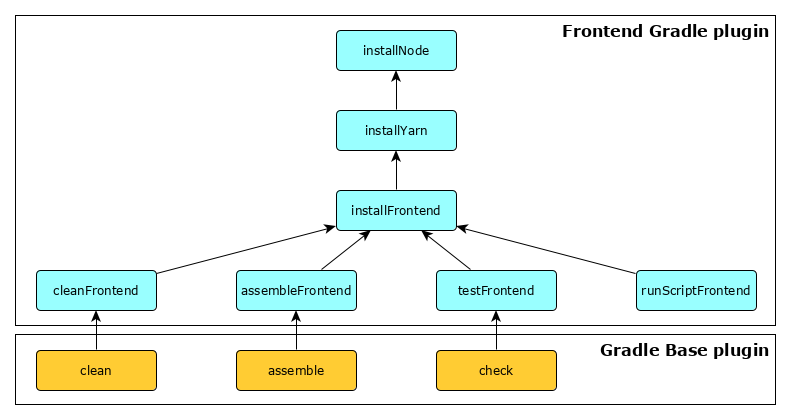
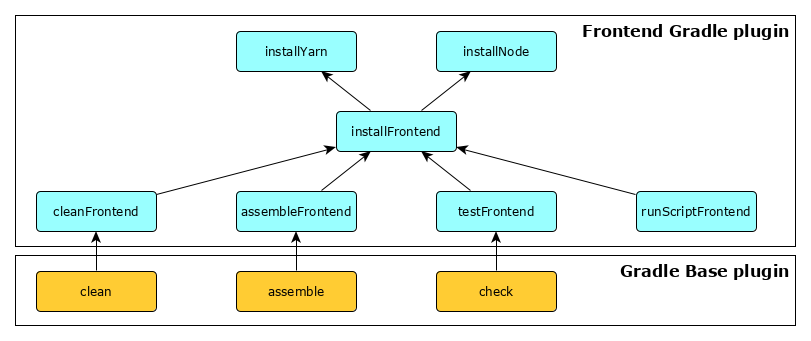
Fixed code smells, removed dependency between installYarn task and installNode task.

diff --git a/src/test/java/org/siouan/frontendgradleplugin/job/ExecSpecActionTest.java b/src/test/java/org/siouan/frontendgradleplugin/job/ExecSpecActionTest.java
@@ -7,6 +7,7 @@ import static org.mockito.Mockito.when;
 
 import java.io.File;
 import java.util.ArrayList;
+import java.util.Arrays;
 import java.util.Collections;
 import java.util.List;
 import java.util.function.Consumer;
@@ -16,6 +17,7 @@ import org.junit.jupiter.api.BeforeEach;
 import org.junit.jupiter.api.Test;
 import org.junit.jupiter.api.io.TempDir;
 import org.mockito.ArgumentCaptor;
+import org.mockito.Captor;
 import org.mockito.Mock;
 import org.mockito.MockitoAnnotations;
 
@@ -46,6 +48,9 @@ public class ExecSpecActionTest {
     @Mock
     private Consumer<ExecSpec> afterConfigured;
 
+    @Captor
+    private ArgumentCaptor<List<String>> argsCaptor;
+
     @BeforeEach
     public void setUp() {
         MockitoAnnotations.initMocks(this);
@@ -56,7 +61,7 @@ public class ExecSpecActionTest {
         final String script = SCRIPT;
         final String pathEnvironment = PATH_ENVIRONMENT;
         final ExecSpecAction action = new ExecSpecAction(false, NODE_INSTALL_DIRECTORY, YARN_INSTALL_DIRECTORY, script,
-            afterConfigured::accept, "Windows NT");
+            afterConfigured, "Windows NT");
         when(execSpec.getEnvironment()).thenReturn(Collections.singletonMap("Path", pathEnvironment));
 
         action.execute(execSpec);
@@ -72,7 +77,7 @@ public class ExecSpecActionTest {
         final String script = SCRIPT;
         final String pathEnvironment = PATH_ENVIRONMENT;
         final ExecSpecAction action = new ExecSpecAction(true, NODE_INSTALL_DIRECTORY, YARN_INSTALL_DIRECTORY, script,
-            afterConfigured::accept, "Windows NT");
+            afterConfigured, "Windows NT");
         when(execSpec.getEnvironment()).thenReturn(Collections.singletonMap("PATH", pathEnvironment));
 
         action.execute(execSpec);
@@ -88,17 +93,13 @@ public class ExecSpecActionTest {
         final String script = SCRIPT;
         final String pathEnvironment = PATH_ENVIRONMENT;
         final ExecSpecAction action = new ExecSpecAction(false, NODE_INSTALL_DIRECTORY, YARN_INSTALL_DIRECTORY, script,
-            afterConfigured::accept, "Linux");
+            afterConfigured, "Linux");
         when(execSpec.getEnvironment()).thenReturn(Collections.singletonMap("Path", pathEnvironment));
 
         action.execute(execSpec);
 
-        final List<String> expectedArgs = new ArrayList<>();
-        for (final String expectedArg : script.trim().split("\\s+")) {
-            expectedArgs.add(expectedArg);
-        }
-        assertExecSpecWith(ExecSpecAction.NPM_EXECUTABLE, expectedArgs, pathEnvironment, true,
-            false);
+        assertExecSpecWith(ExecSpecAction.NPM_EXECUTABLE, Arrays.asList(script.trim().split("\\s+")), pathEnvironment,
+            true, false);
     }
 
     @Test
@@ -106,24 +107,19 @@ public class ExecSpecActionTest {
         final String script = SCRIPT;
         final String pathEnvironment = PATH_ENVIRONMENT;
         final ExecSpecAction action = new ExecSpecAction(true, NODE_INSTALL_DIRECTORY, YARN_INSTALL_DIRECTORY, script,
-            afterConfigured::accept, "Mac OS X");
+            afterConfigured, "Mac OS X");
         when(execSpec.getEnvironment()).thenReturn(Collections.singletonMap("PATH", pathEnvironment));
 
         action.execute(execSpec);
 
-        final List<String> expectedArgs = new ArrayList<>();
-        for (final String expectedArg : script.trim().split("\\s+")) {
-            expectedArgs.add(expectedArg);
-        }
-        assertExecSpecWith(ExecSpecAction.YARN_EXECUTABLE, expectedArgs, pathEnvironment, true,
-            true);
+        assertExecSpecWith(ExecSpecAction.YARN_EXECUTABLE, Arrays.asList(script.trim().split("\\s+")), pathEnvironment,
+            true, true);
     }
 
     private void assertExecSpecWith(final String expectedExecutable, final List<String> expectedArgs,
         final String initialPathEnvironment, final boolean nodeInstallPathIncluded,
         final boolean yarnInstallPathIncluded) {
         verify(execSpec).setExecutable(expectedExecutable);
-        final ArgumentCaptor<List<String>> argsCaptor = ArgumentCaptor.forClass(List.class);
         verify(execSpec).setArgs(argsCaptor.capture());
         final List<String> args = argsCaptor.getValue();
         assertThat(args).isEqualTo(expectedArgs);

diff --git a/src/main/java/org/siouan/frontendgradleplugin/node/NodeDistributionUrlResolver.java b/src/main/java/org/siouan/frontendgradleplugin/node/NodeDistributionUrlResolver.java
@@ -3,6 +3,7 @@ package org.siouan.frontendgradleplugin.node;
 import java.net.MalformedURLException;
 import java.net.URI;
 import java.net.URL;
+import java.util.Optional;
 
 import org.siouan.frontendgradleplugin.Utils;
 import org.siouan.frontendgradleplugin.job.DistributionUrlResolver;
@@ -54,35 +55,17 @@ public class NodeDistributionUrlResolver implements DistributionUrlResolver {
     public URL resolve() throws DistributionUrlResolverException {
         final String urlAsString;
         if (distributionUrl == null) {
-            final StringBuffer buffer = new StringBuffer();
+            final StringBuilder buffer = new StringBuilder();
             buffer.append("https://nodejs.org/dist/v");
             buffer.append(version);
             buffer.append("/node-v");
             buffer.append(version);
-            final String extension;
-            if (Utils.is64BitsArch(jreArch)) {
-                if (Utils.isWindowsOs(osName)) {
-                    extension = "-win-x64.zip";
-                } else if (Utils.isLinuxOs(osName)) {
-                    extension = "-linux-x64.tar.gz";
-                } else if (Utils.isMacOs(osName)) {
-                    extension = "-darwin-x64.tar.gz";
-                } else {
-                    extension = null;
-                }
+            final Optional<String> extension = resolveExtension();
+            if (extension.isPresent()) {
+                buffer.append(extension.get());
             } else {
-                if (Utils.isWindowsOs(osName)) {
-                    extension = "-win-x86.zip";
-                } else {
-                    extension = null;
-                }
-            }
-
-            if (extension == null) {
                 throw new DistributionUrlResolverException(
                     "This platform is not supported yet: " + osName + ", " + jreArch);
-            } else {
-                buffer.append(extension);
             }
 
             urlAsString = buffer.toString();
@@ -95,5 +78,28 @@ public class NodeDistributionUrlResolver implements DistributionUrlResolver {
         } catch (final MalformedURLException e) {
             throw new DistributionUrlResolverException(e);
         }
+    }
+
+    private Optional<String> resolveExtension() {
+        final String extension;
+        if (Utils.is64BitsArch(jreArch)) {
+            if (Utils.isWindowsOs(osName)) {
+                extension = "-win-x64.zip";
+            } else if (Utils.isLinuxOs(osName)) {
+                extension = "-linux-x64.tar.gz";
+            } else if (Utils.isMacOs(osName)) {
+                extension = "-darwin-x64.tar.gz";
+            } else {
+                extension = null;
+            }
+        } else {
+            if (Utils.isWindowsOs(osName)) {
+                extension = "-win-x86.zip";
+            } else {
+                extension = null;
+            }
+        }
+
+        return Optional.ofNullable(extension);
     }
 }

diff --git a/src/main/java/org/siouan/frontendgradleplugin/FrontendGradlePlugin.java b/src/main/java/org/siouan/frontendgradleplugin/FrontendGradlePlugin.java
@@ -18,9 +18,9 @@ public class FrontendGradlePlugin implements Plugin<Project> {
 
     public static final String DEFAULT_YARN_INSTALL_DIRNAME = "yarn";
 
-    public static final String EXTENSION_NAME = "frontend";
+    private static final String EXTENSION_NAME = "frontend";
 
-    public static final String TASK_GROUP = "Frontend";
+    private static final String TASK_GROUP = "Frontend";
 
     public void apply(final Project project) {
         project.getPluginManager().apply(BasePlugin.class);
@@ -49,7 +49,7 @@ public class FrontendGradlePlugin implements Plugin<Project> {
         projectTasks.register(AssembleTask.DEFAULT_NAME, AssembleTask.class, task -> configureTask(task, extension));
         projectTasks.named("assemble", task -> task.dependsOn(projectTasks.named(AssembleTask.DEFAULT_NAME)));
 
-        projectTasks.register(RunScriptTask.DEFAULT_NAME, RunScriptTask.class, task -> configureTask(task, extension));
+        projectTasks.register(RunScriptTask.DEFAULT_NAME, RunScriptTask.class, this::configureTask);
     }
 
     private void configureTask(final NodeInstallTask task, final FrontendExtension extension) {
@@ -67,7 +67,6 @@ public class FrontendGradlePlugin implements Plugin<Project> {
         task.getYarnVersion().set(extension.getYarnVersion());
         task.getYarnDistributionUrl().set(extension.getYarnDistributionUrl());
         task.getYarnInstallDirectory().set(extension.getYarnInstallDirectory());
-        task.dependsOn(NodeInstallTask.DEFAULT_NAME);
     }
 
     private void configureTask(final InstallTask task, FrontendExtension extension) {
@@ -109,7 +108,7 @@ public class FrontendGradlePlugin implements Plugin<Project> {
         task.dependsOn(InstallTask.DEFAULT_NAME);
     }
 
-    private void configureTask(final RunScriptTask task, FrontendExtension extension) {
+    private void configureTask(final RunScriptTask task) {
         task.setGroup(TASK_GROUP);
         task.setDescription("Runs a frontend script.");
         task.dependsOn(InstallTask.DEFAULT_NAME);

diff --git a/src/main/java/org/siouan/frontendgradleplugin/DownloaderImpl.java b/src/main/java/org/siouan/frontendgradleplugin/DownloaderImpl.java
@@ -1,7 +1,5 @@
 package org.siouan.frontendgradleplugin;
 
-import static org.siouan.frontendgradleplugin.Utils.closeOrWarn;
-
 import java.io.File;
 import java.io.FileOutputStream;
 import java.io.IOException;
@@ -30,17 +28,11 @@ public class DownloaderImpl implements Downloader {
     public void download(final URL resourceUrl, final File destinationFile) throws DownloadException {
         final String resourceName = new File(resourceUrl.getPath()).getName();
         final File downloadedFile = new File(temporaryDirectory, resourceName);
-        ReadableByteChannel readableByteChannel = null;
-        FileOutputStream fileOutputStream = null;
-        try {
-            readableByteChannel = Channels.newChannel(resourceUrl.openStream());
-            fileOutputStream = new FileOutputStream(downloadedFile);
+        try (final ReadableByteChannel readableByteChannel = Channels.newChannel(resourceUrl.openStream());
+             final FileOutputStream fileOutputStream = new FileOutputStream(downloadedFile)) {
             fileOutputStream.getChannel().transferFrom(readableByteChannel, 0, Long.MAX_VALUE);
         } catch (final IOException e) {
             throw new DownloadException("Resource at '" + resourceUrl + "' could not be downloaded.", e);
-        } finally {
-            closeOrWarn(fileOutputStream);
-            closeOrWarn(readableByteChannel);
         }
 
         try {

diff --git a/src/test/java/org/siouan/frontendgradleplugin/job/DistributionInstallJobTest.java b/src/test/java/org/siouan/frontendgradleplugin/job/DistributionInstallJobTest.java
@@ -19,11 +19,13 @@ import java.nio.file.Files;
 import org.gradle.api.Action;
 import org.gradle.api.Project;
 import org.gradle.api.Task;
+import org.gradle.api.file.CopySpec;
 import org.gradle.api.logging.Logger;
 import org.gradle.api.tasks.WorkResult;
 import org.junit.jupiter.api.BeforeEach;
 import org.junit.jupiter.api.Test;
 import org.junit.jupiter.api.io.TempDir;
+import org.mockito.ArgumentMatchers;
 import org.mockito.Mock;
 import org.mockito.MockitoAnnotations;
 import org.mockito.invocation.InvocationOnMock;
@@ -120,14 +122,14 @@ public class DistributionInstallJobTest {
         final DistributionInstallJob job = new DistributionInstallJob(task, urlResolver, null,
             new File(temporaryDirectory, "install"));
         // Emulate exploding distribution
-        when(project.copy(any(Action.class)))
+        when(project.copy(ArgumentMatchers.<Action<CopySpec>>any()))
             .then(invocation -> explodeArchive(invocation, distributionUrlAsString, installDirectory));
 
         job.install();
 
         verify(urlResolver).resolve();
         verifyNoMoreInteractions(urlResolver);
-        verify(project).copy(any(Action.class));
+        verify(project).copy(ArgumentMatchers.<Action<CopySpec>>any());
         assertThat(installDirectory.list()).isNotEmpty();
     }
 

diff --git a/src/main/java/org/siouan/frontendgradleplugin/job/ExecSpecAction.java b/src/main/java/org/siouan/frontendgradleplugin/job/ExecSpecAction.java
@@ -2,6 +2,7 @@ package org.siouan.frontendgradleplugin.job;
 
 import java.io.File;
 import java.util.ArrayList;
+import java.util.Arrays;
 import java.util.List;
 import java.util.Map;
 import java.util.function.Consumer;
@@ -115,15 +116,13 @@ public class ExecSpecAction implements Action<ExecSpec> {
             } else {
                 executable = NPM_EXECUTABLE;
             }
-            for (final String arg : script.trim().split("\\s+")) {
-                args.add(arg);
-            }
+            args.addAll(Arrays.asList(script.trim().split("\\s+")));
         }
 
         // Prepend directories containing the Node and Yarn executables to the 'PATH' environment variable.
         final Map<String, Object> environment = execSpec.getEnvironment();
         final String pathVariable = findPathVariable(environment);
-        final StringBuffer pathValue = new StringBuffer(nodeInstallDirectory.getAbsolutePath());
+        final StringBuilder pathValue = new StringBuilder(nodeInstallDirectory.getAbsolutePath());
         pathValue.append(File.pathSeparatorChar);
         if (yarnEnabled) {
             pathValue.append(yarnInstallDirectory.getAbsolutePath());

diff --git a/src/main/java/org/siouan/frontendgradleplugin/Utils.java b/src/main/java/org/siouan/frontendgradleplugin/Utils.java
@@ -1,6 +1,5 @@
 package org.siouan.frontendgradleplugin;
 
-import java.io.Closeable;
 import java.io.File;
 import java.io.IOException;
 import java.io.UncheckedIOException;
@@ -9,7 +8,6 @@ import java.nio.file.Files;
 import java.nio.file.Path;
 import java.nio.file.SimpleFileVisitor;
 import java.nio.file.attribute.BasicFileAttributes;
-import java.util.logging.Level;
 import java.util.logging.Logger;
 import java.util.stream.Stream;
 
@@ -21,21 +19,6 @@ public final class Utils {
     private static final Logger LOGGER = Logger.getLogger(Utils.class.getName());
 
     private Utils() {
-    }
-
-    /**
-     * Closes a resource and produces a WARN log if it fails.
-     *
-     * @param closeable Closeable resource.
-     */
-    public static void closeOrWarn(final Closeable closeable) {
-        if (closeable != null) {
-            try {
-                closeable.close();
-            } catch (final IOException e) {
-                LOGGER.log(Level.WARNING, "Resource not closed", e);
-            }
-        }
     }
 
     /**

diff --git a/src/main/java/org/siouan/frontendgradleplugin/job/ScriptRunJob.java b/src/main/java/org/siouan/frontendgradleplugin/job/ScriptRunJob.java
@@ -1,7 +1,6 @@
 package org.siouan.frontendgradleplugin.job;
 
 import java.io.File;
-import java.util.stream.Collectors;
 
 import org.gradle.api.Task;
 
@@ -40,8 +39,7 @@ public class ScriptRunJob extends AbstractJob {
         task.getProject()
             .exec(new ExecSpecAction(yarnEnabled, nodeInstallDirectory, yarnInstallDirectory, script, execSpec -> {
                 logDebug(execSpec.getEnvironment().toString());
-                logLifecycle("Running '" + execSpec.getExecutable() + ' ' + execSpec.getArgs().stream()
-                    .collect(Collectors.joining(" ")) + '\'');
+                logLifecycle("Running '" + execSpec.getExecutable() + ' ' + String.join(" ", execSpec.getArgs()));
             })).rethrowFailure().assertNormalExitValue();
     }
 }

diff --git a/src/main/java/org/siouan/frontendgradleplugin/job/AbstractJob.java b/src/main/java/org/siouan/frontendgradleplugin/job/AbstractJob.java
@@ -25,20 +25,8 @@ public abstract class AbstractJob {
         task.getLogger().error(formatMessage(message));
     }
 
-    protected void logError(final String message, final Throwable throwable) {
-        task.getLogger().error(formatMessage(message), throwable);
-    }
-
-    protected void logInfo(final String message) {
-        task.getLogger().info(formatMessage(message));
-    }
-
     protected void logLifecycle(final String message) {
         task.getLogger().lifecycle(formatMessage(message));
-    }
-
-    protected void logWarn(final String message) {
-        task.getLogger().warn(formatMessage(message));
     }
 
     protected void logWarn(final String message, final Throwable throwable) {

diff --git a/src/test/java/org/siouan/frontendgradleplugin/functional/RunScriptFuncTest.java b/src/test/java/org/siouan/frontendgradleplugin/functional/RunScriptFuncTest.java
@@ -61,9 +61,8 @@ public class RunScriptFuncTest {
             projectDirectory.toPath().resolve("package.json"));
         final Map<String, Object> properties = new HashMap<>();
         properties.put("nodeVersion", "10.15.3");
-        final StringBuffer customTaskDefinition = new StringBuffer();
         final String customTaskName = "e2e";
-        customTaskDefinition.append("tasks.register('");
+        final StringBuilder customTaskDefinition = new StringBuilder("tasks.register('");
         customTaskDefinition.append(customTaskName);
         customTaskDefinition.append("', org.siouan.frontendgradleplugin.RunScriptTask) {\n");
         customTaskDefinition.append("dependsOn installFrontend\n");

diff --git a/src/test/java/org/siouan/frontendgradleplugin/yarn/YarnDistributionUrlResolverTest.java b/src/test/java/org/siouan/frontendgradleplugin/yarn/YarnDistributionUrlResolverTest.java
@@ -28,7 +28,7 @@ public class YarnDistributionUrlResolverTest {
     @Test
     public void shouldFailWhenDistributionUrlIsInvalid() {
         final String distributionUrl = "siouan://test";
-        assertThatThrownBy(() -> new YarnDistributionUrlResolver(null, distributionUrl).resolve().toString())
+        assertThatThrownBy(() -> new YarnDistributionUrlResolver(null, distributionUrl).resolve())
             .isInstanceOf(DistributionUrlResolverException.class).hasCauseInstanceOf(MalformedURLException.class);
     }
 

diff --git a/src/main/java/org/siouan/frontendgradleplugin/FileHasherImpl.java b/src/main/java/org/siouan/frontendgradleplugin/FileHasherImpl.java
@@ -51,7 +51,7 @@ public class FileHasherImpl implements FileHasher {
      * @return Hexadecimal string.
      */
     private String toHexadecimalString(final byte[] hash) {
-        final StringBuffer hexadecimalString = new StringBuffer();
+        final StringBuilder hexadecimalString = new StringBuilder();
         for (byte digit : hash) {
             String hexadecimalDigit = Integer.toHexString(0xff & digit);
             if (hexadecimalDigit.length() == 1) {
